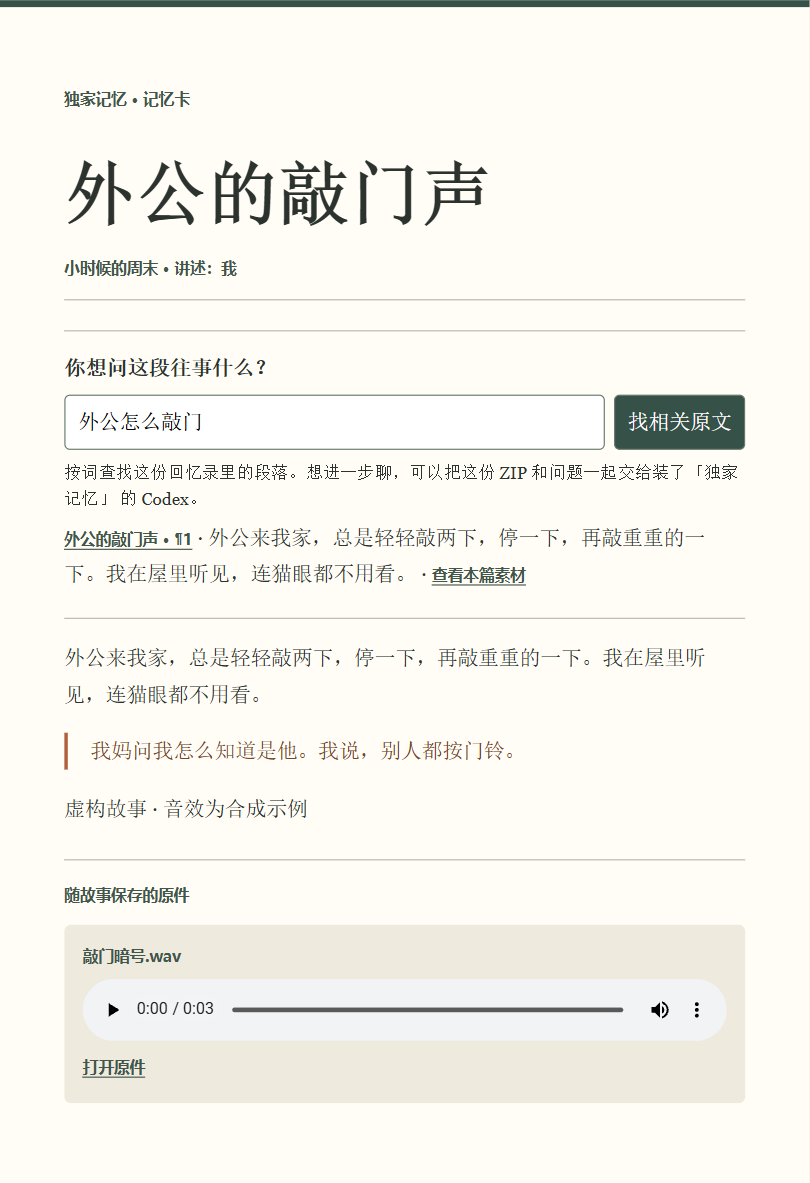
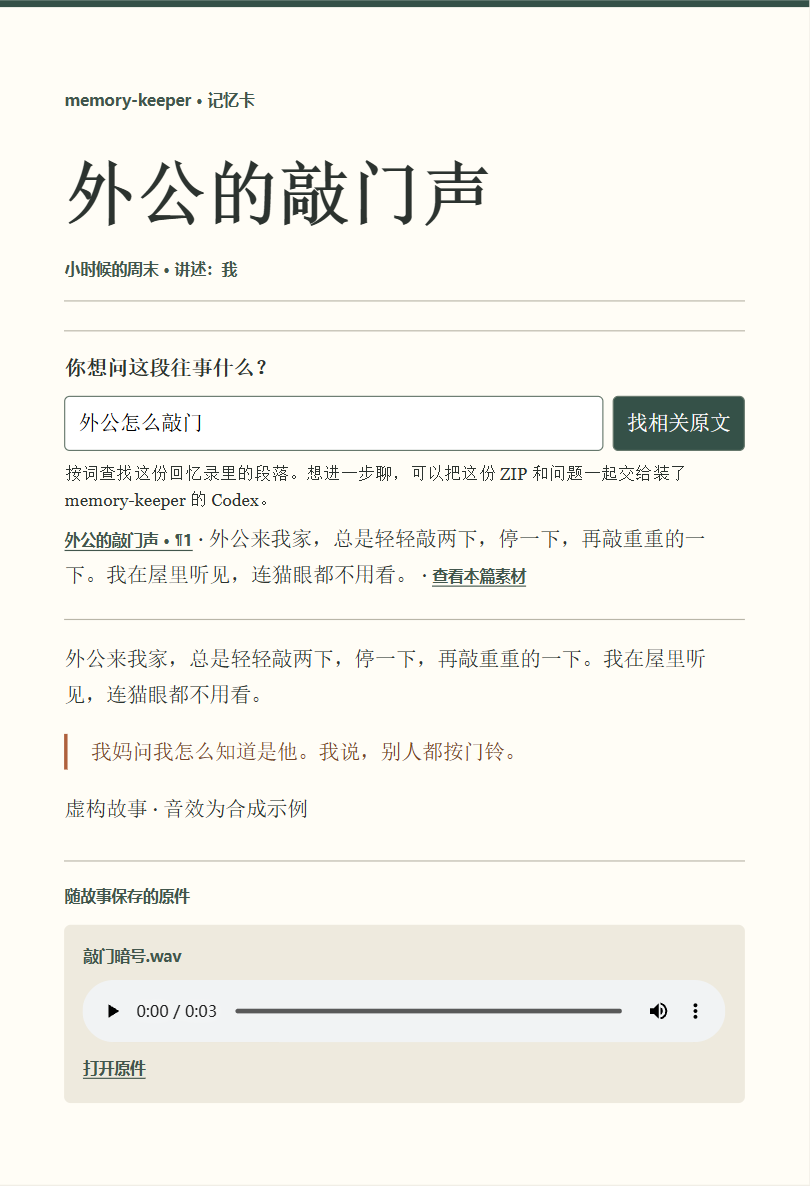
Use the installable memory-keeper name across skill entry points

diff --git a/memory-keeper/scripts/memory_card.py b/memory-keeper/scripts/memory_card.py
@@ -17,10 +17,10 @@ LABELS = {
 }
 READER_TEXT = {
     "zh": ("分享给你的回忆", "你想问这段往事什么？", "找相关原文",
-           "按词查找这份回忆录里的段落。想进一步聊，可以把这份 ZIP 和问题一起交给装了「独家记忆」 的 Codex。",
+           "按词查找这份回忆录里的段落。想进一步聊，可以把这份 ZIP 和问题一起交给装了 memory-keeper 的 Codex。",
            "这份回忆录里没有找到匹配的原文。", "查看本篇素材"),
     "en": ("Memories shared with you", "What would you like to ask?", "Find passages",
-           "Find matching words in these stories. For a conversation, give this ZIP and your question to Codex with Memory Keeper installed.",
+           "Find matching words in these stories. For a conversation, give this ZIP and your question to Codex with memory-keeper installed.",
            "No matching passage was found in these stories.", "See this story’s originals"),
 }
 IMAGE = set("jpg jpeg jfif png gif webp avif bmp".split())
@@ -159,7 +159,7 @@ def build_card(vault, stories, lang, selected):
     page = (f'<!doctype html>\n<html lang="{"zh-CN" if lang == "zh" else "en"}"><head>'
             f'<meta charset="utf-8"><meta name="viewport" content="width=device-width,initial-scale=1">'
             f'<title>{escape(title)}</title><style>{CSS}</style></head><body><main>'
-            f'<p class="meta">{"独家记忆" if lang == "zh" else "Memory Keeper"} · {kind}{marker}</p>{contents}</main>'
+            f'<p class="meta">memory-keeper · {kind}{marker}</p>{contents}</main>'
             f'<script>{reader}</script></body></html>\n')
 
     folder = vault / "exports"

diff --git a/memory-keeper/scripts/memory_vault.py b/memory-keeper/scripts/memory_vault.py
@@ -1380,7 +1380,7 @@ BOOK_TEXT = {
         "related": {"相关", "related"},
         "sep": "、",
         "joiner": "",
-        "colophon": "本书由 「独家记忆」 根据讲述整理，只收录讲述者说过的内容。",
+        "colophon": "本书由 memory-keeper 根据讲述者的原话整理。",
         "empty": "记忆库里还没有符合条件的记忆。",
     },
     "en": {
@@ -1402,7 +1402,7 @@ BOOK_TEXT = {
         "related": {"相关", "related"},
         "sep": ", ",
         "joiner": " ",
-        "colophon": "Compiled by Memory Keeper from what was told, and nothing else.",
+        "colophon": "Compiled by memory-keeper from the narrators’ accounts.",
         "empty": "No memories match yet.",
     },
 }

diff --git a/README_CN.md b/README_CN.md
@@ -4,7 +4,7 @@
 
 [English](README.md) | 中文
 
-**独家记忆 · 让 AI 越聊越懂你。** 从聊天或一次个人采访里留下你想记住的话，换个对话也能接着聊。[开始聊天](memory-keeper/README_CN.md)
+**memory-keeper · 让 AI 越聊越懂你。** 从聊天或一次个人采访里留下你想记住的话，换个对话也能接着聊。[开始聊天](memory-keeper/README_CN.md)
 
 ## 技能一览
 
@@ -29,7 +29,7 @@
 | 17 | [**综述论文入库**](#17-综述论文入库-paper-insert)<br>`paper-insert` | 把写好的论文总结插进对应综述（VLA / VLM / 世界模型 / 空间智能），自动顺延序号并保持锚点不变 | Python 3 |
 | 18 | [**VLN 论文入库**](#18-vln-论文入库-vln-paper-insert)<br>`vln-paper-insert` | 一次把论文写进 VLN 论文列表（主篇 / 扩展篇）的正文、筛选标签、参考文献、会议表和排行榜 | Python 3 |
 | 19 | [**VLN 导航指令撰写**](#19-vln-导航指令撰写-vln-instruction)<br>`vln-instruction` | 撰写、改写、体检英文导航指令：R2R-CE / RxR-CE 路线指令对照 3D 轨迹校验，另含单目标物体指令 | Python 3 |
-| 20 | [**独家记忆**](memory-keeper/README_CN.md)<br>`memory-keeper` | 从聊天和个人采访里留住你的经历，以后按话题找回原话 | 归档和检索用 Python 3 |
+| 20 | [**memory-keeper**](memory-keeper/README_CN.md) | 从聊天和个人采访里留住你的经历，以后按话题找回原话 | 归档和检索用 Python 3 |
 
 → [我常用的第三方技能](#我常用的第三方技能) · [如何将技能添加到 Claude Code](#如何将技能添加到-claude-code)
 
@@ -392,7 +392,7 @@ flowchart TD
 - **示例：** “给 val_seen 里 1234 号 episode 写一条 R2R 风格指令”“这批指令写回数据集前帮我检查一遍。”
 - 详细说明见 [skill 文件](vln-instruction/SKILL.md)。
 
-### 20. 独家记忆（`memory-keeper`）
+### 20. memory-keeper
 
 让 AI 通过你愿意留下的聊天和个人采访，慢慢了解你。
 

diff --git a/README.md b/README.md
@@ -4,7 +4,7 @@ A curated collection of custom Claude Code skills (SKILL.md templates) and autom
 
 English | [中文](README_CN.md)
 
-**独家记忆 · An AI chat companion.** Keep moments from a chat or a personal interview. When the subject comes up again, your AI can find what you said. [Get started](memory-keeper/README.md)
+**memory-keeper · An AI chat companion.** Keep moments from a chat or a personal interview. When the subject comes up again, your AI can find what you said. [Get started](memory-keeper/README.md)
 
 ## Skills at a Glance
 
@@ -29,7 +29,7 @@ English | [中文](README_CN.md)
 | 17 | [**Survey Paper Insert**](#17-survey-paper-insert-paper-insert)<br>`paper-insert` | Files a finished paper summary into the right survey post (VLA / VLM / world models / spatial intelligence), renumbering sections while keeping anchors stable | Python 3 |
 | 18 | [**VLN Paper Insert**](#18-vln-paper-insert-vln-paper-insert)<br>`vln-paper-insert` | Adds a paper to a two-page VLN paper list in one pass: section, filter tag, reference, venue table and leaderboard rows | Python 3 |
 | 19 | [**VLN Instruction Writer**](#19-vln-instruction-writer-vln-instruction)<br>`vln-instruction` | Writes, rewrites and lints English navigation instructions — R2R-CE / RxR-CE routes checked against the 3D trajectory, plus short object-goal commands | Python 3 |
-| 20 | [**独家记忆 · AI chat companion**](memory-keeper/README.md)<br>`memory-keeper` | Keep chosen moments from chats and guided interviews for more personal conversations later | Python 3 for archiving and search |
+| 20 | [**memory-keeper**](memory-keeper/README.md) | Keep chosen moments from chats and guided interviews for more personal conversations later | Python 3 for archiving and search |
 
 → [Third-Party Skills I Use](#third-party-skills-i-use) · [How to Add Skills to Claude Code](#how-to-add-skills-to-claude-code)
 

diff --git a/memory-keeper/README_CN.md b/memory-keeper/README_CN.md
@@ -1,6 +1,6 @@
-# 独家记忆
+# memory-keeper
 
-**让 AI 越聊越懂你。**
+**留下自己的独家记忆，让 AI 越聊越懂你。**
 
 从聊天里挑一句你希望它记得的话，也可以请它采访你。下次换个对话，它能找回你当时的原话，接着聊。
 
@@ -11,7 +11,7 @@
 在 Codex 里直接发这句：
 
 ```text
-请安装「独家记忆」：https://github.com/TingdeLiu/Tyndall-Skills/tree/main/memory-keeper
+请安装 memory-keeper 这个 Skill：https://github.com/TingdeLiu/Tyndall-Skills/tree/main/memory-keeper
 ```
 
 也可以在项目目录运行下面的命令，选择 Codex 或 Claude Code。安装器使用 Node.js，归档和检索脚本使用 Python 3 标准库。[安装器说明](https://github.com/vercel-labs/skills#install-a-skill)
@@ -20,7 +20,7 @@
 npx skills add https://github.com/TingdeLiu/Tyndall-Skills/tree/main/memory-keeper
 ```
 
-安装后就能聊。第一次想留下经历或长期设定朋友性格时，选一个自己的文件夹。此后在能访问它的新对话里使用「独家记忆」，就能接着聊。你的经历存为 Markdown，可附照片、录音和视频。朋友的性格写在 `SOUL.md`，你随时可以改。聊天中用到的内容会经过你使用的 AI 服务。[English](README.md)
+安装后就能聊。第一次想留下经历或长期设定朋友性格时，选一个自己的文件夹。此后在能访问它的新对话里使用 memory-keeper，就能接着聊。你的经历存为 Markdown，可附照片、录音和视频。朋友的性格写在 `SOUL.md`，你随时可以改。聊天中用到的内容会经过你使用的 AI 服务。[English](README.md)
 
 ## 拿一段旧聊天试试
 

diff --git a/memory-keeper/SKILL.md b/memory-keeper/SKILL.md
@@ -1,9 +1,9 @@
 ---
 name: memory-keeper
-description: 独家记忆，让 AI 通过聊天和一问一答的个人采访逐渐了解你。用于「采访我，让你更了解我」「从这段聊天挑出值得记的事」「记住我刚才说的」「还记得我上次为什么紧张吗」。换个对话可以从本地记忆库接着聊，也支持回忆录和故事分享。Use for personal memory, guided self-interviews, keeping chosen moments from a chat, and conversation grounded in the owner's saved words.
+description: 让 AI 通过聊天和一问一答的个人采访逐渐了解你。用于「采访我，让你更了解我」「从这段聊天挑出值得记的事」「记住我刚才说的」「还记得我上次为什么紧张吗」。换个对话可以从本地记忆库接着聊，也支持回忆录和故事分享。Use for personal memory, guided self-interviews, keeping chosen moments from a chat, and conversation grounded in the owner's saved words.
 ---
 
-# 独家记忆
+# memory-keeper
 
 陪用户聊眼前的事。把本人愿意留下的原话和经历记在自己的文件夹。以后聊到相关话题，翻回当时怎么说的，让回应具体一点。
 

diff --git a/memory-keeper/README.md b/memory-keeper/README.md
@@ -1,4 +1,4 @@
-# 独家记忆 · An AI chat companion
+# memory-keeper · An AI chat companion
 
 **Help your AI get to know you, one conversation at a time.** [中文](README_CN.md)
 
